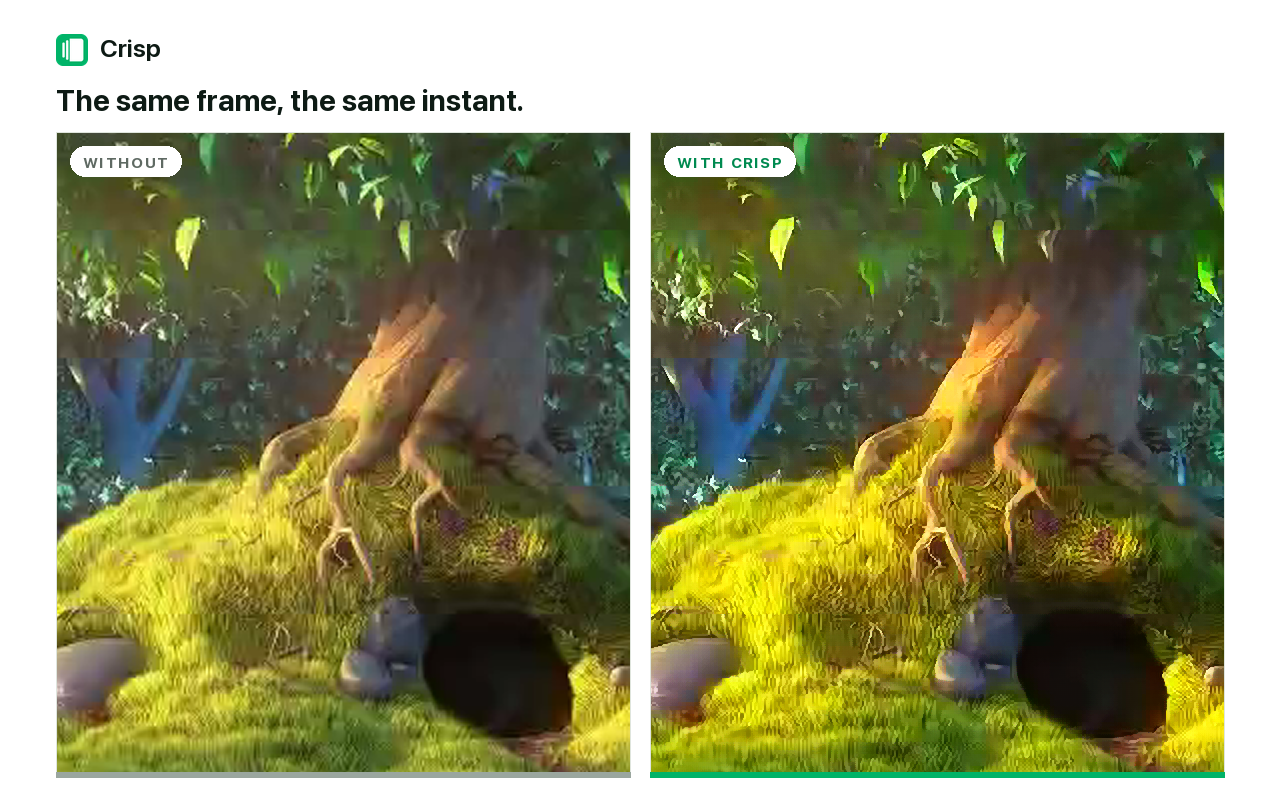
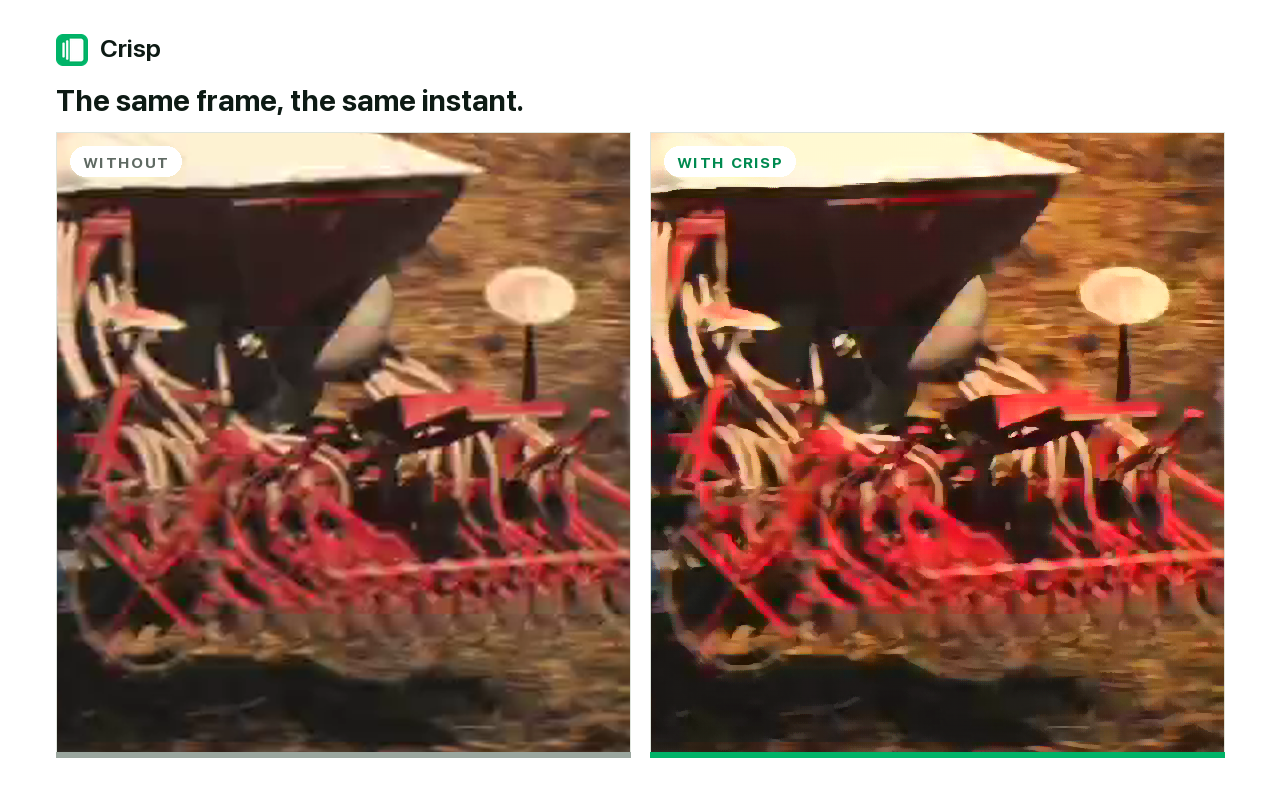
Screenshots: drop the animation source, magnify at 2x not 3x
Big Buck Bunny is out. Its 10-second clip is a single scene, so once the tree
shot was rejected there was nothing else in it to use. Sintel was already out
on measurement -- negative gain, no textured windows.

Back to the clips that were actually approved: tractor, pedestrian_area,
factory. The tractor comparison now carries the sharpen pass it was missing the
first time it was shown and rejected, which is most of why it looked flat then.

Detail shot magnifies 2x rather than 3x. The model is 2x, and showing 300%
next to a 2x product invites exactly the confusion it caused.

diff --git a/marketing/make_video.py b/marketing/make_video.py
@@ -28,10 +28,10 @@ from looks import grade
 
 # (clip, crop-x, crop-y) -- each window is 100% pixels, chosen to hold detail
 SCENES = [
-    ("src/anime_bbb.mp4",                340, 200),
     ("src/tractor_1080p25.mp4",          420, 260),
-    ("src/anime_sintel.mp4",             340, 180),
     ("src/pedestrian_area_1080p25.mp4",  380, 200),
+    ("src/factory_1080p30.mp4",          260, 180),
+    ("src/speed_bag_1080p.mp4",          300, 240),
 ]
 CW, CH = 1280, 720
 FPS = 25
